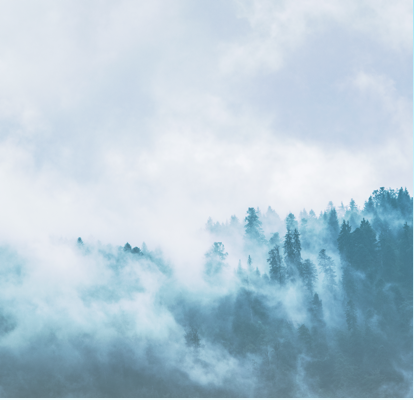
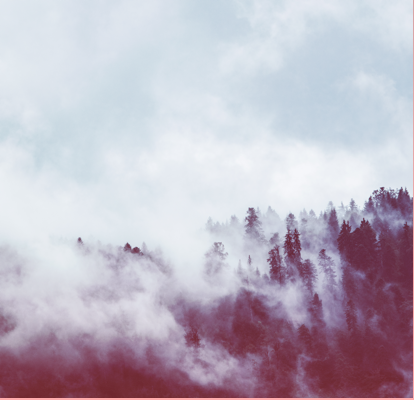
rethemed the wc page. Swapping hero's next

diff --git a/src/index.css b/src/index.css
@@ -205,7 +205,7 @@ textarea {
 
 .input-button {
   border: none;
-  background-color: #4030E8;
+  background-color: #9F2529;
   color: #fff;
   font-size: 1em;
   font-weight: 300;
@@ -304,7 +304,7 @@ textarea {
 
 .wc-hero {
   align-items: center;
-  color: #4030E8;
+  color: #9F2529;
   display: flex;
   flex-direction: row;
   min-height: 280px;
@@ -347,7 +347,7 @@ textarea {
 
 .wc-logo {
   align-items: center;
-  color: #4030E8;
+  color: #9F2529;
   display: flex;
   flex-direction: row;
   min-height: 280px;
@@ -388,7 +388,7 @@ textarea {
 .wc-nav li a {
   width: max-content;
   text-decoration: none;
-  color: #4030E8;
+  color: #9F2529;
 }
 
 .wc-registration-checkbox {
